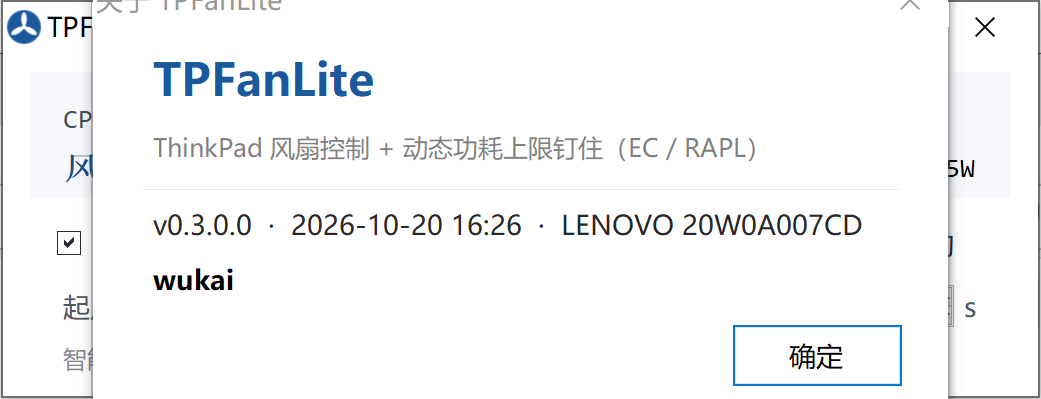
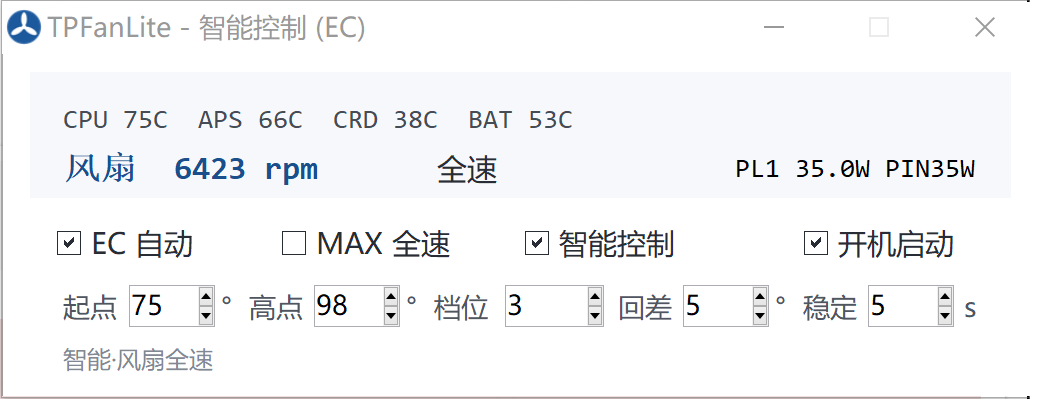
fix: 版本号显示为 major.minor.patch；更新界面截图
- About.VersionText：0.3.0.0 → v0.3.0
- docs/screenshot.png：改为当前五项参数界面

diff --git a/src/About.cs b/src/About.cs
@@ -84,7 +84,12 @@ namespace TPFanLite
             {
                 FileVersionInfo vi = FileVersionInfo.GetVersionInfo(Application.ExecutablePath);
                 string v = (vi.FileVersion ?? "").Trim();
-                if (v.Length > 0 && v != "0.0.0.0" && v != "0.0.0.0.0") return "v" + v;
+                if (v.Length > 0 && v != "0.0.0.0" && v != "0.0.0.0.0")
+                {
+                    string[] ps = v.Split('.');
+                    if (ps.Length > 3) v = ps[0] + "." + ps[1] + "." + ps[2];   // 0.3.0.0 → 0.3.0
+                    return "v" + v;
+                }
             }
             catch { }
             return "开发版";
